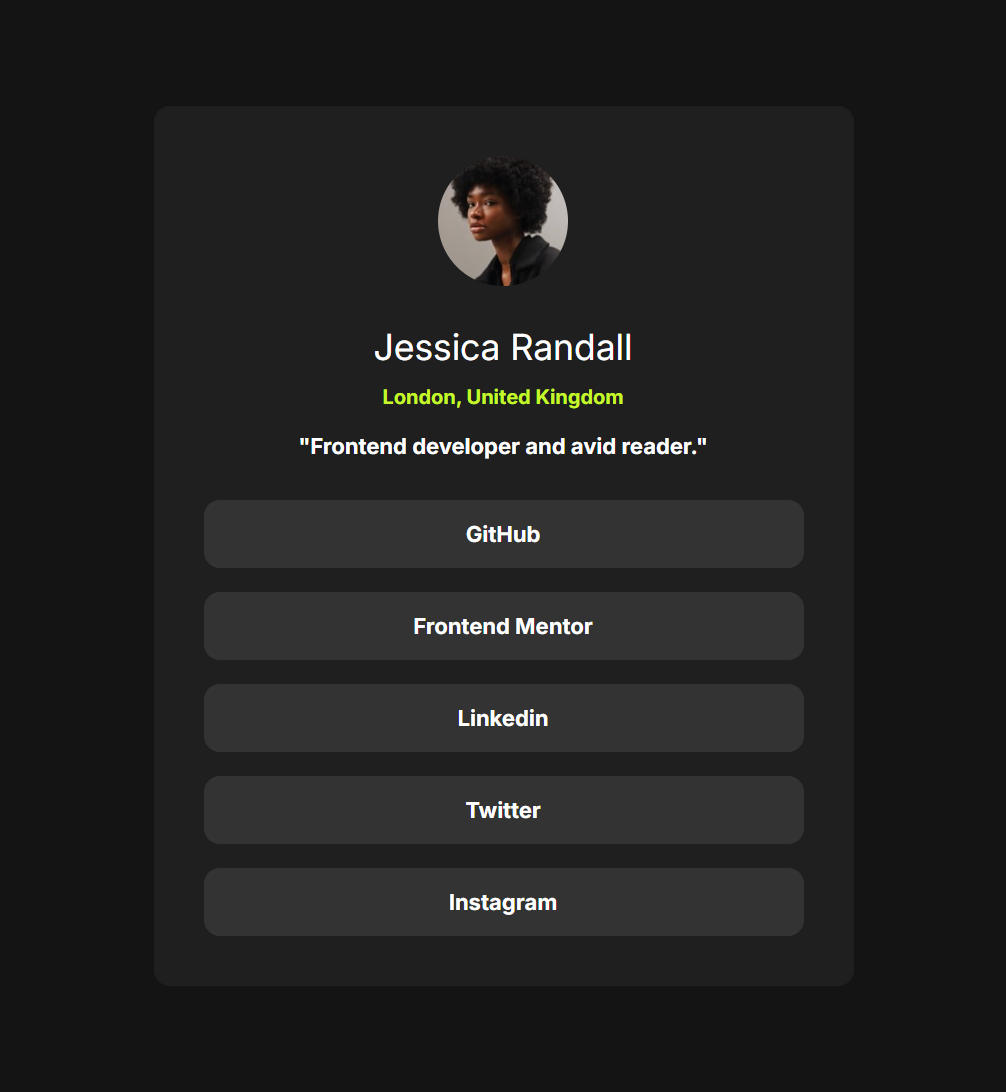
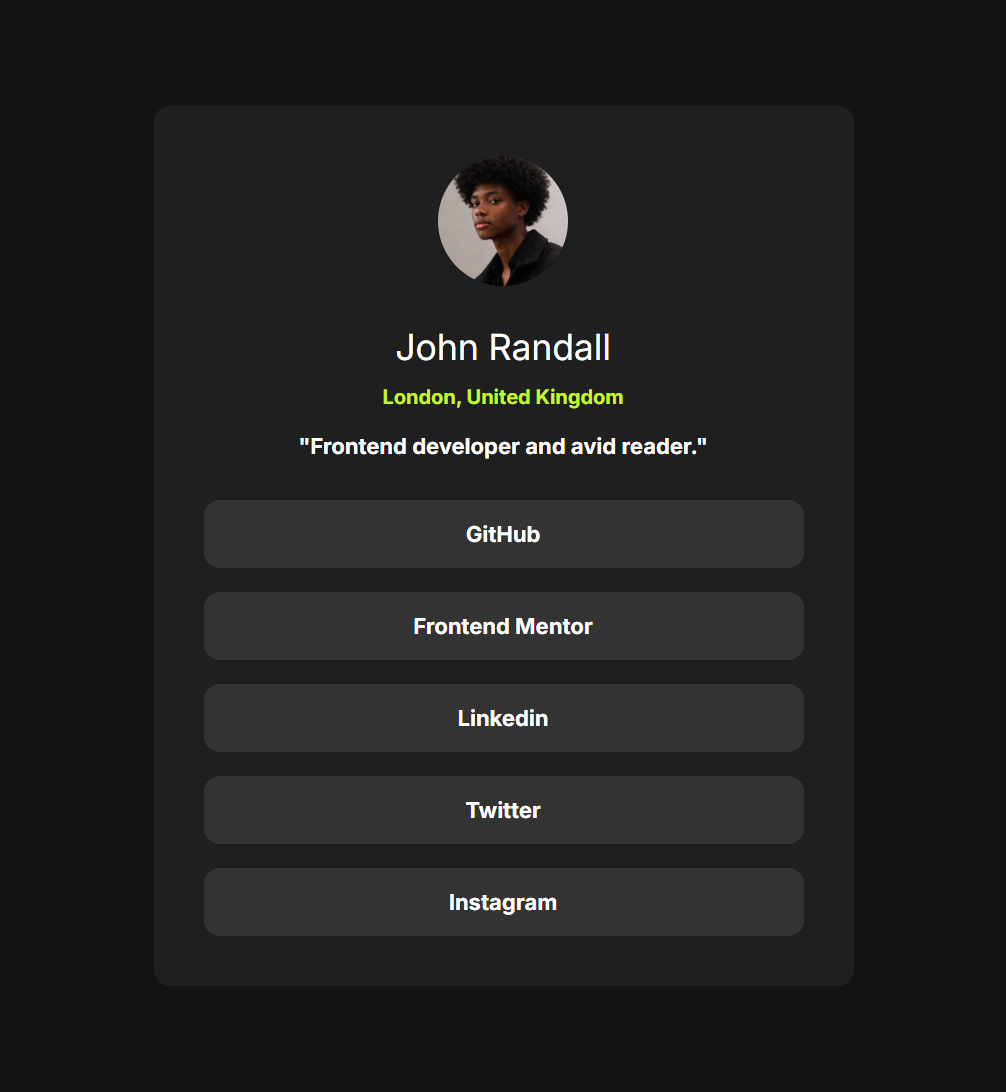
changed README.md file

Changed region(s): [[0.3698, 0.2802, 0.6471, 0.3425], [0.4314, 0.1557, 0.5547, 0.2491]]

diff --git a/index.html b/index.html
@@ -26,13 +26,9 @@
   <body>
     <section class="profile">
       <header class="main-header">
-        <img
-          src="./images/avatar-jessica.jpeg"
-          alt="Jessica Randall"
-          class="img"
-        />
+        <img src="./images/john-image.png" alt="Jessica Randall" class="img" />
         <div class="header-description">
-          <h3 class="header-title">Jessica Randall</h3>
+          <h3 class="header-title">John Randall</h3>
           <p class="location">London, United Kingdom</p>
           <p class="quote">"Frontend developer and avid reader."</p>
         </div>
